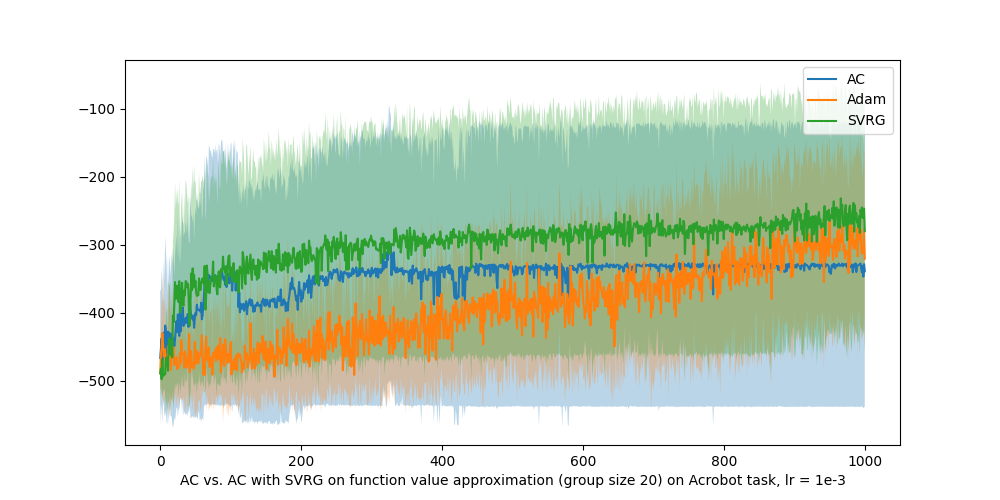
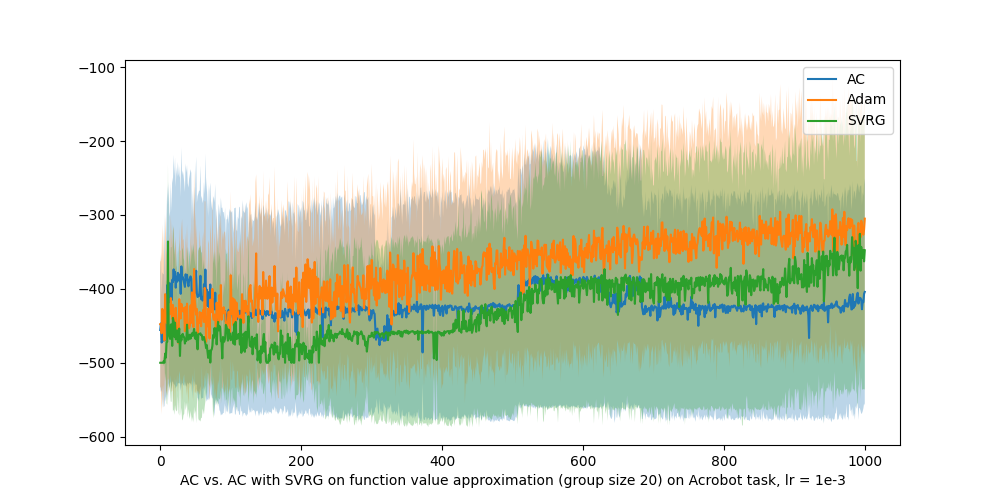
update pictures

diff --git a/code/mix.py b/code/mix.py
@@ -21,12 +21,12 @@ To avoid reruning the code for multiple times,
 we save the rewards of different models as .txt files and generate the plot here.
 '''
 
-task = 'acrobot' # cartpole, acrobot
+task = 'cartpole' # cartpole, acrobot
 algo = 'ac' # ac, ac value svrg
 groupsize = 20
 update = 40
 runs = 10
-LR = '1e-4'
+LR = '1e-3'
 
 if __name__ == '__main__':
     ac = np.loadtxt(f"data\\{task}\\lr={LR}\\ac\\ac {task} {runs} lr={LR}.txt")
